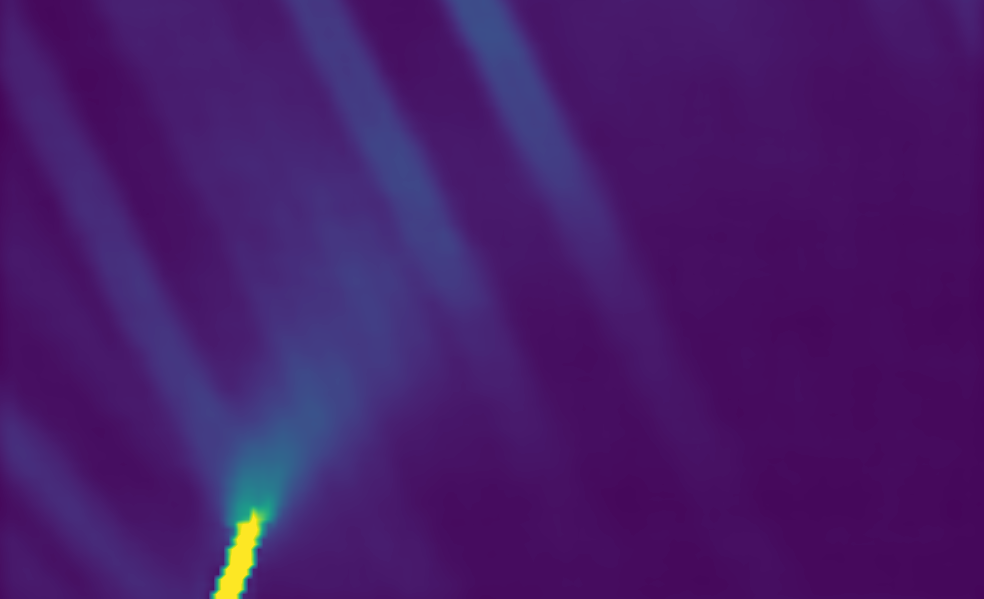
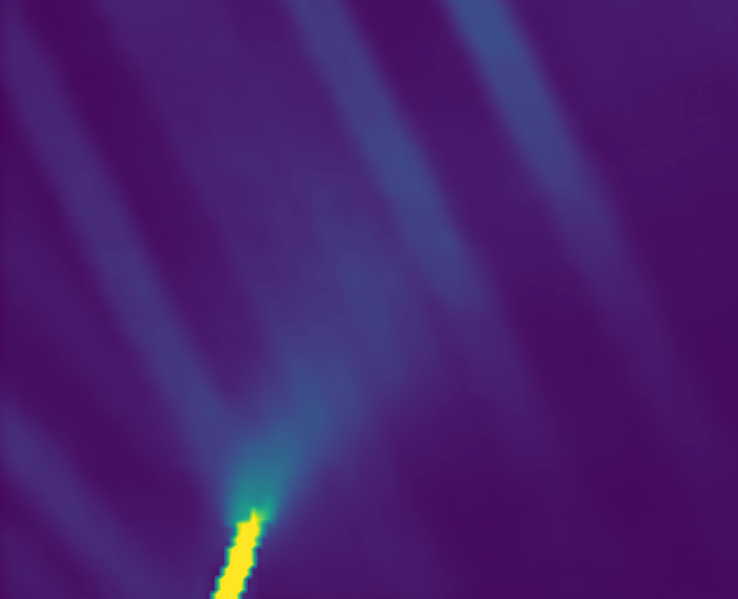
site : couleurs, captures plus grandes, equation mise en valeur
CURSEUR DU HAUT : quart droit coupe en plus du tiers haut (cette partie
de la ROI est calme), et affiche a 860 px au lieu de 680.

CAPTURES : la colonne d'image passe a deux tiers, et l'inversion inverse
AUSSI les largeurs — sans quoi une image sur deux se retrouvait dans la
colonne etroite.

COULEURS : une teinte par methode (ardoise, teal, violet) sur le filet
du haut, le numero et la pastille des trois cartes ; l'equation garde le
gris pour la DIC de tout le monde et passe le terme d'enrichissement en
ambre, avec sa pastille. L'encadre epouse enfin la formule au lieu de
faire 1200 px pour 600.

EDITIONS : la carte payante prend le navy de marque, contour et bouton
pleins. Deux contours gris et un seul bouton plein faisaient lire
« prends la gratuite ».

Une pastille « Crack & twin analysis » mene a la section rupture, et les
blocs Citing et About prennent la largeur de la page.

diff --git a/index.html b/index.html
@@ -625,7 +625,7 @@
         }
 
         .about-content {
-            max-width: 900px;
+            max-width: 1280px;
             margin: 0 auto;
         }
 
@@ -827,6 +827,20 @@
 
         .wide-main { margin-top: 2rem; }
 
+        /* L'ENCADRE EPOUSE LA FORMULE. En pleine largeur il faisait 1200 px pour
+           une equation de 600 : le panneau se lisait comme la chose importante,
+           et l'equation flottait dedans. */
+        .wide-main .equation-block {
+            width: fit-content;
+            max-width: 100%;
+            margin: 0 auto;
+            padding: 2.25rem 2.75rem;
+        }
+
+        /* L'EQUATION EST LA PIECE MAITRESSE DE LA SECTION : plus grande ici que
+           dans le corps de texte, puisqu'elle a maintenant sa propre ligne. */
+        .wide-main .eq-row { font-size: 1.85rem; }
+
         .feature-wide .tech-grid {
             grid-template-columns: repeat(3, 1fr);
             margin-top: 0;
@@ -842,11 +856,14 @@
            ouvre en grand au clic, puisqu'elle est reduite ici. */
         .feature-section.feature-split {
             display: grid;
-            grid-template-columns: 2fr 3fr;
-            gap: 3rem;
+            grid-template-columns: 1fr 2fr;
+            gap: 2.5rem;
             align-items: center;
         }
 
+        /* Inversee, la capture passe en PREMIERE colonne : c'est donc la premiere
+           qui doit etre la large, sinon l'alternance retrecit une image sur deux. */
+        .feature-split.is-reversed { grid-template-columns: 2fr 1fr; }
         .feature-split.is-reversed .split-text { order: 2; }
         .feature-split.is-reversed .split-media { order: 1; }
 
@@ -1022,9 +1039,21 @@
             color: #a5a5bd;
         }
 
+        /* LA COULEUR NE SERT QU'AU TERME QU'ON APPORTE. Le reste de l'equation
+           est la DIC de tout le monde : elle reste en gris. L'ambre se lit sur le
+           navy sans concurrencer le teal du bouton de telechargement, qui est
+           ailleurs sur la page. */
+        .feature-section.tone-dark .eq-group--hdic .eq-expr {
+            color: #fbbf24;
+            border-bottom-color: rgba(251, 191, 36, 0.55);
+        }
+
+        .feature-section.tone-dark .eq-group--hdic .eq-label { color: #e3ab3a; }
+
         .feature-section.tone-dark .eq-badge-hdic {
-            background: #f2f2f7;
-            color: var(--ink);
+            background: #fbbf24;
+            color: #2b1d02;
+            font-weight: 600;
         }
 
         .feature-section.tone-dark .fig-caption { color: #9494ab; }
@@ -1060,7 +1089,14 @@
             text-align: left;
         }
 
+        /* UNE COULEUR PAR METHODE, et elles ne concurrencent pas le bouton de
+           telechargement : le teal plein reste a lui seul. Ici la couleur ne
+           sert qu'au filet du haut, au numero et a la pastille, sur fond blanc.
+           Elle donne aux trois cartes un ordre lisible d'un coup d'oeil. */
         .method-card {
+            --m: var(--muted);
+            --m-tint: rgba(123, 123, 143, 0.08);
+            border-top: 3px solid var(--m);
             display: flex;
             flex-direction: column;
             gap: 0.45rem;
@@ -1073,7 +1109,19 @@
             transition: border-color 0.15s ease;
         }
 
-        .method-card:hover { border-color: var(--accent); }
+        .method-card:hover {
+            border-color: var(--line);
+            border-top-color: var(--m);
+            background: var(--m-tint);
+        }
+
+        .method-card.m1 { --m: #64748b; --m-tint: rgba(100, 116, 139, 0.07); }
+        .method-card.m2 { --m: #0e7490; --m-tint: rgba(14, 116, 144, 0.07); }
+        .method-card.m3 { --m: #6d28d9; --m-tint: rgba(109, 40, 217, 0.07); }
+
+        .method-card .method-step { color: var(--m); font-weight: 600; }
+        .method-card .method-badge { color: var(--m); border-color: var(--m); }
+        .method-card .method-proof { color: var(--m); }
         .method-card:focus-visible { outline: 2px solid var(--accent); outline-offset: 2px; }
 
         .method-step {
@@ -1123,11 +1171,7 @@
             padding: 0.1rem 0.45rem;
         }
 
-        .method-badge.is-free {
-            color: var(--accent-hi);
-            border-color: var(--accent);
-            background: var(--accent-tint);
-        }
+        .method-card .method-badge.is-free { background: var(--m-tint); }
 
         .edition-card {
             display: flex;
@@ -1140,6 +1184,30 @@
         .edition-card.is-free {
             border-color: var(--accent);
             background: var(--accent-tint);
+        }
+
+        /* L'EDITION COMPLETE N'EST PAS LE PARENT PAUVRE. Deux contours gris et un
+           seul bouton plein faisaient lire « prends la gratuite » : c'est l'offre
+           payante qui disparaissait. Elle prend donc le navy de marque, contour et
+           bouton, la ou la gratuite garde le teal. Deux chemins, deux couleurs,
+           aucun des deux efface l'autre. */
+        .edition-card.is-full {
+            border-color: var(--ink);
+            box-shadow: 0 2px 10px rgba(23, 23, 40, 0.10);
+        }
+
+        .edition-card.is-full .edition-name { color: var(--ink); }
+
+        .edition-card.is-full .btn {
+            background: var(--ink);
+            border-color: var(--ink);
+            color: #fff;
+        }
+
+        .edition-card.is-full .btn:hover {
+            background: var(--ink-soft);
+            border-color: var(--ink-soft);
+            color: #fff;
         }
 
         .edition-name {
@@ -1198,7 +1266,7 @@
         }
 
         .cite-content {
-            max-width: 760px;
+            max-width: 1280px;
             margin: 0 auto;
             padding: 0 1.5rem;
         }
@@ -1590,7 +1658,7 @@
                     <strong>neural correlation</strong>, Argos2D lets you pick the right method for each
                     test, and compare them on the same images.
                 </p>
-                <div style="margin: 1.5rem auto 0 auto; max-width: 680px;">
+                <div style="margin: 1.5rem auto 0 auto; max-width: 860px;">
                     <!-- Field toggle: Displacement / Strain -->
                     <div style="display: flex; justify-content: center; margin-bottom: 1rem;">
                         <div class="field-toggle" id="field-toggle">
@@ -1632,6 +1700,7 @@
                     <span class="hero-tag">CUDA native</span>
                     <span class="hero-tag">Multi-GPU compatible</span>
                     <span class="hero-tag">Interactive visualization</span>
+                    <a class="hero-tag" href="#fracture" style="text-decoration: none;">Crack &amp; twin analysis</a>
                     <a class="hero-tag" href="#neural-correlation" style="text-decoration: none;">Neural correlation</a>
                 </div>
 
@@ -1653,20 +1722,20 @@
                 </div>
 
                 <div class="methods-grid">
-                    <a class="method-card" href="#editions">
+                    <a class="method-card m1" href="#editions">
                         <span class="method-step">Method 1</span>
                         <span class="method-name">Standard DIC</span>
                         <span class="method-desc">The proven subset method, CUDA-accelerated. Fast, robust, fully tunable.</span>
                         <span class="method-badge is-free">Free</span>
                     </a>
-                    <a class="method-card" href="#heaviside">
+                    <a class="method-card m2" href="#heaviside">
                         <span class="method-step">Method 2</span>
                         <span class="method-name">Heaviside-enriched DIC</span>
                         <span class="method-desc">Captures cracks, twins and slip bands <em>inside</em> the subset, where standard DIC smears them.</span>
                         <span class="method-proof"><svg width="14" height="14" viewBox="0 0 16 16" fill="none" aria-hidden="true"><path d="M8 1.5l1.9 3.9 4.3.6-3.1 3 .7 4.3L8 11.3l-3.8 2 .7-4.3-3.1-3 4.3-.6L8 1.5z" fill="currentColor"/></svg><span>Method used in <em>Science</em> (2022)</span></span>
                         <span class="method-badge">Full edition</span>
                     </a>
-                    <a class="method-card" href="#neural-correlation">
+                    <a class="method-card m3" href="#neural-correlation">
                         <span class="method-step">Method 3</span>
                         <span class="method-name">Neural correlation</span>
                         <span class="method-desc">A dense, pixel-wise field from a RAFT-derived network, computed locally on your GPU.</span>
@@ -1819,7 +1888,7 @@
             </div>
 
             <!-- ==================== 2. FRACTURE ANALYSIS ==================== -->
-            <div class="feature-section feature-split is-reversed">
+            <div class="feature-section feature-split is-reversed" id="fracture">
                 <div class="split-text">
                     <p class="section-subtitle">Dedicated post-processing for cracks, twins and slip bands.</p>
                     <h2>Fracture &amp; Discontinuity Analysis</h2>
@@ -1957,7 +2026,7 @@
                            data-edition="free"><svg width="15" height="15" viewBox="0 0 16 16" fill="none" aria-hidden="true"><path d="M8 1v9m0 0L4.5 6.5M8 10l3.5-3.5M2 12.5v1A1.5 1.5 0 0 0 3.5 15h9a1.5 1.5 0 0 0 1.5-1.5v-1" stroke="currentColor" stroke-width="1.6" stroke-linecap="round" stroke-linejoin="round"/></svg> Download free portable version</a>
                     </div>
 
-                    <div class="edition-card">
+                    <div class="edition-card is-full">
                         <span class="edition-name">Full edition</span>
                         <span class="edition-price">License key</span>
                         <p>

diff --git a/make_field_screens.py b/make_field_screens.py
@@ -54,6 +54,11 @@ DISP_PCT = (1, 99)
 # pixels que personne ne voit. La section neuronale, elle, garde ses cartes entieres.
 CROP_TOP = 1 / 3
 
+# ET LE QUART DROIT. Meme raison : cette partie de la ROI est calme, les bandes et la
+# fissure sont a gauche. L'image finale est donc un paysage large, qui tient sur la page
+# sans l'etirer en hauteur.
+CROP_RIGHT = 1 / 4
+
 
 def load(folder, comp):
     return tifffile.imread(SRC / folder / "Displacements" / f"{STEM}_{comp}.tif").astype(np.float64)
@@ -79,7 +84,8 @@ def dic_to_pixels(grid, shape):
 
 
 def save(data, norm, cmap_name, name):
-    data = data[int(round(data.shape[0] * CROP_TOP)):]
+    data = data[int(round(data.shape[0] * CROP_TOP)):,
+                :int(round(data.shape[1] * (1 - CROP_RIGHT)))]
     cmap = colormaps[cmap_name].with_extremes(bad=(1, 1, 1, 1))
     rgb = (cmap(norm(data))[..., :3] * 255).astype(np.uint8)
     out = DEST / name
